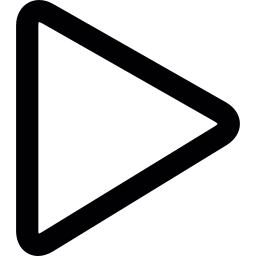
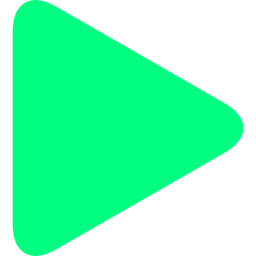
Nice blending

diff --git a/sw.js b/sw.js
@@ -9,7 +9,7 @@
 const DOCUMENT_CACHE_NAME = `DOC`
 var DOCUMENT_CACHE = null
 // Resource Cache is a cache of almost always static resources - images, fonts, and everything in the Texts folder
-const RESOURCE_VERSION = 1.10
+const RESOURCE_VERSION = 1.20
 const RESOURCE_CACHE_NAME = `RESv${RESOURCE_VERSION.toFixed(2)}`
 var RESOURCE_CACHE = null
 

diff --git a/index.css b/index.css
@@ -229,11 +229,9 @@ button {
 }
 
 button img {
-    filter: invert(0.5);
-    transform: filter 250ms ease;
     height: 1em;
 }
 
 button:hover img {
-    filter: invert(0);
+    mix-blend-mode: difference;
 }
